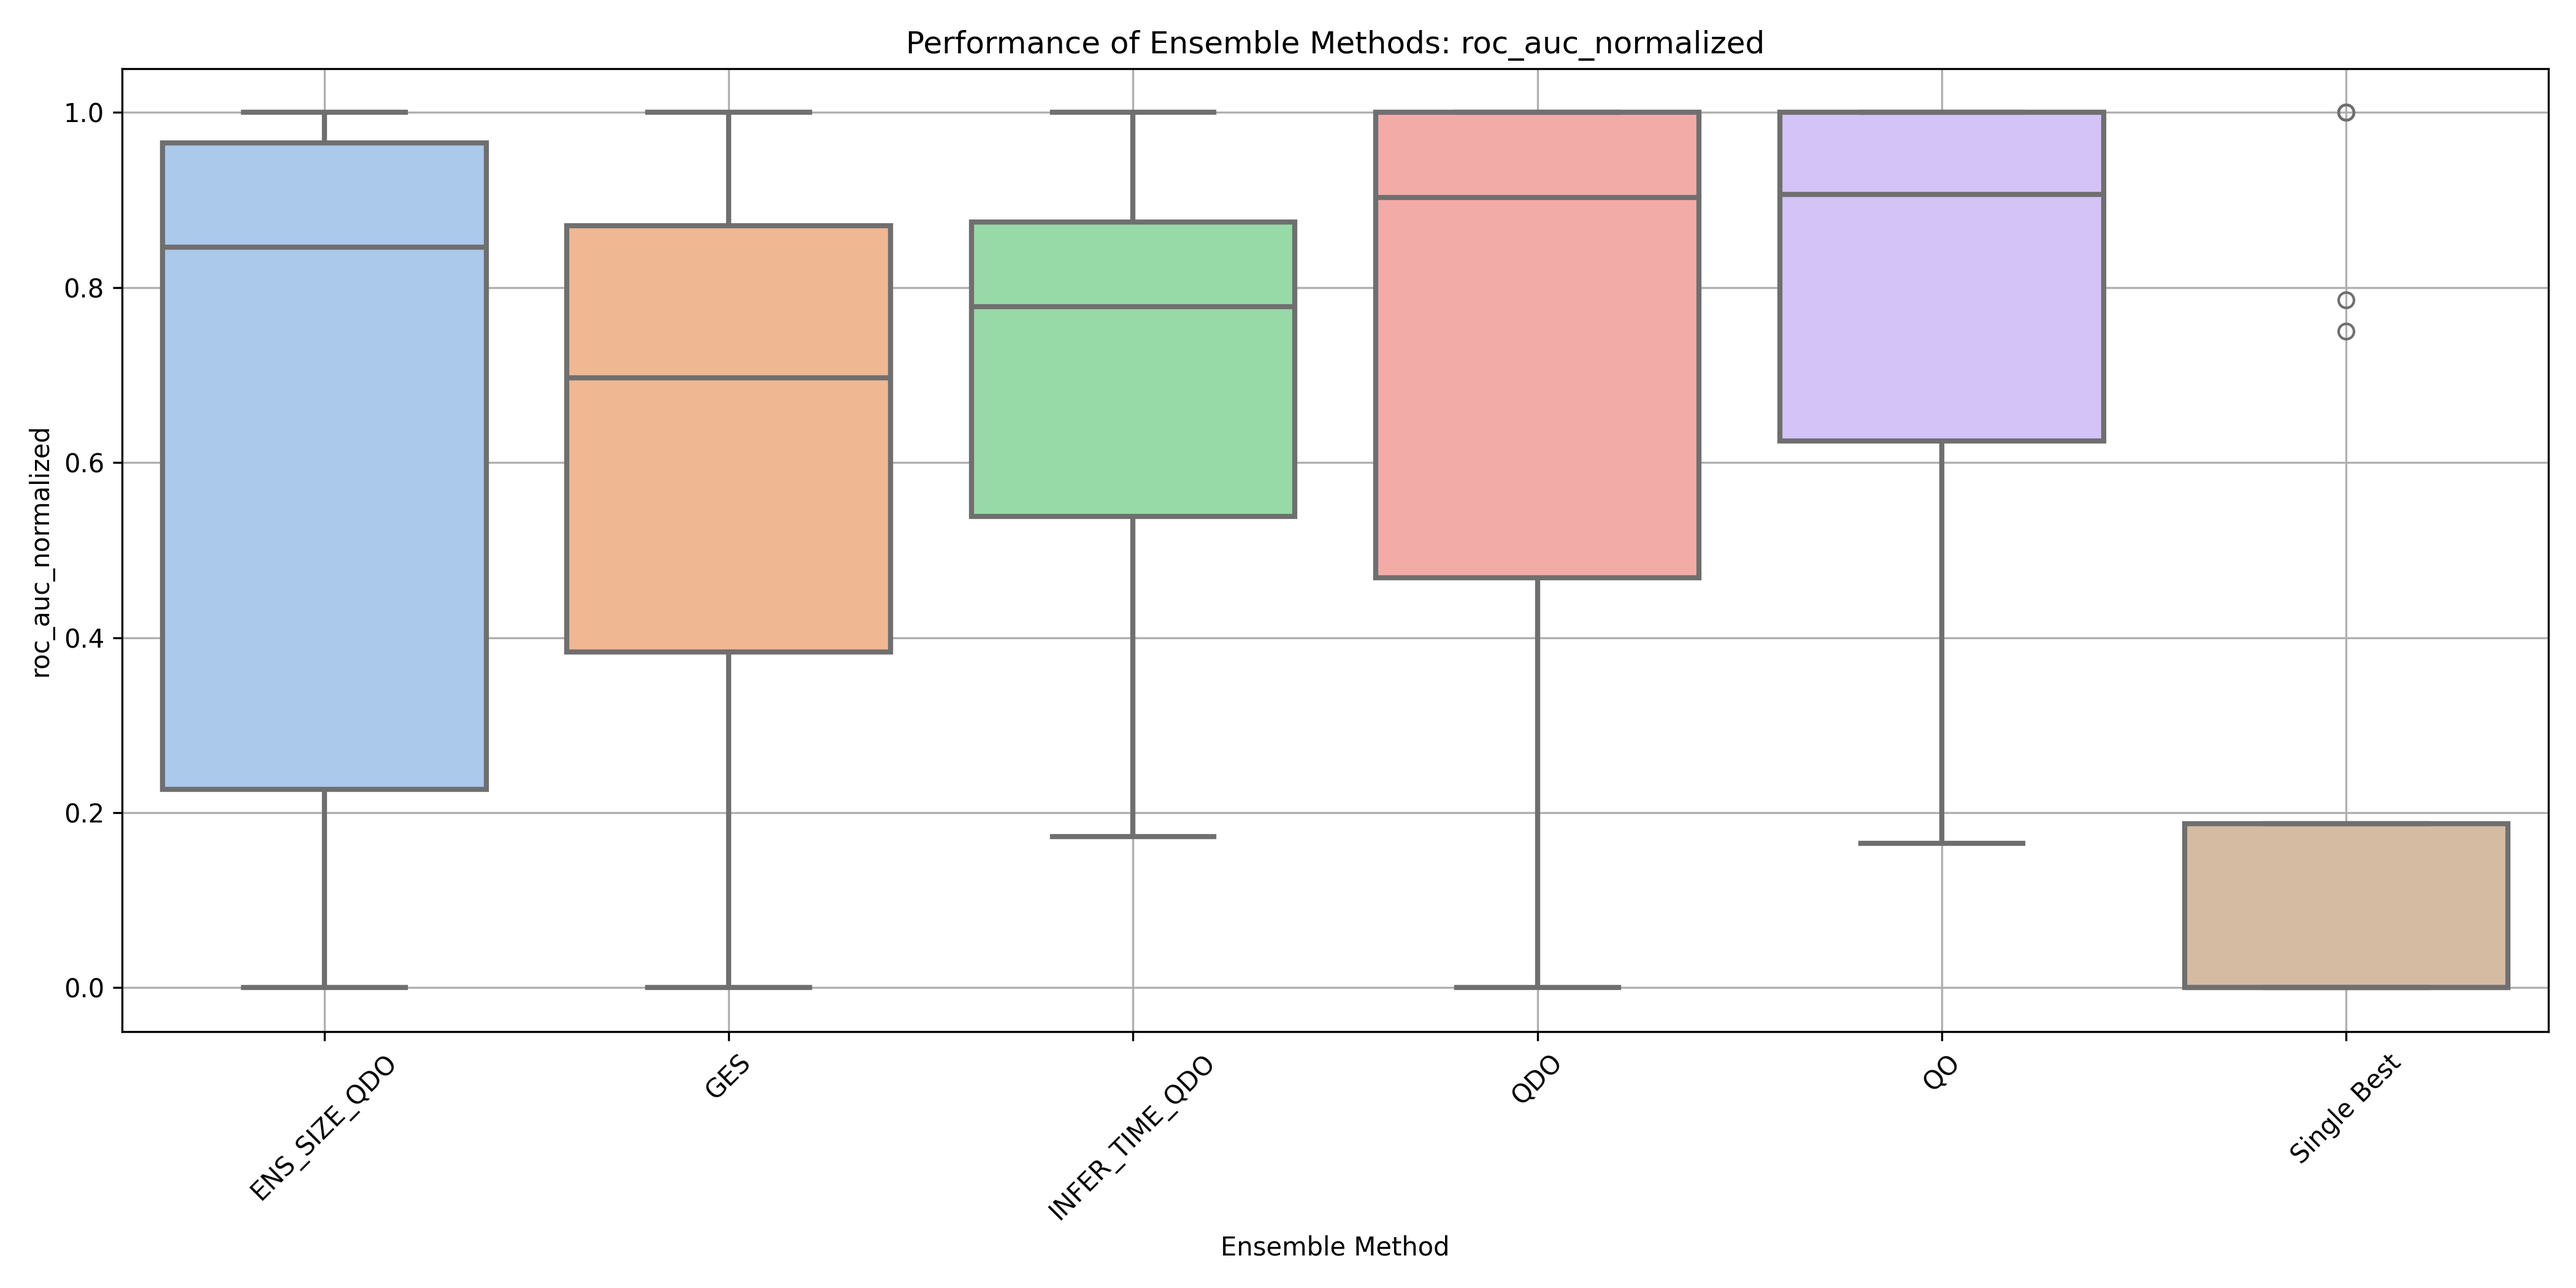
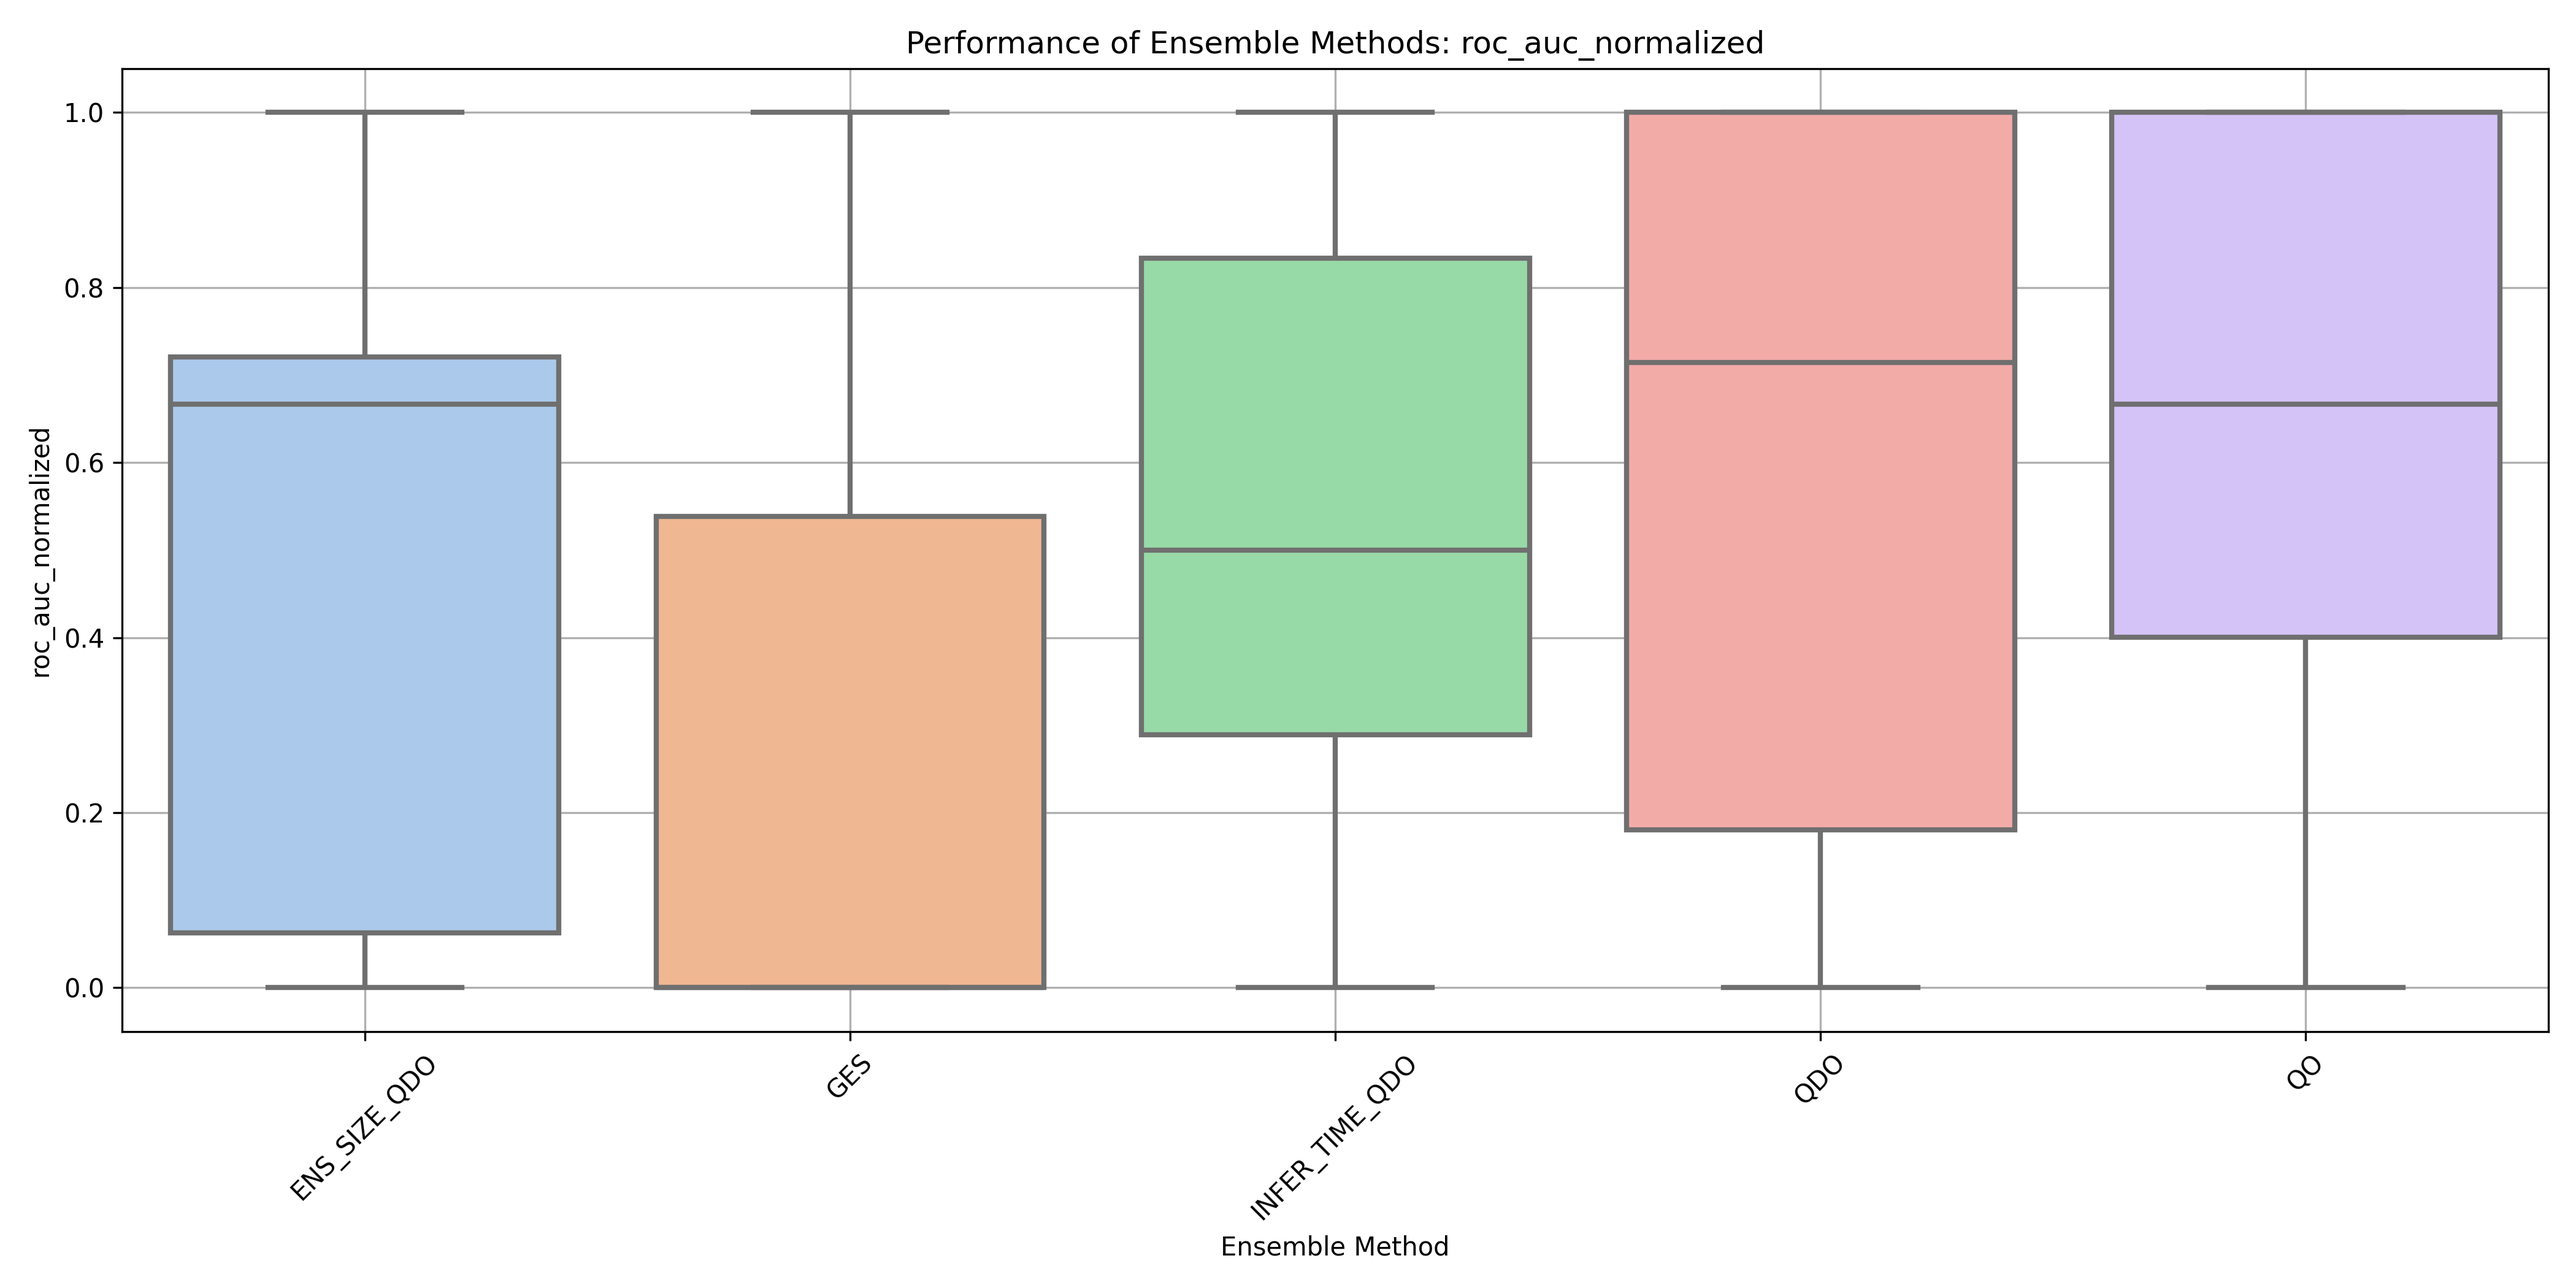
Hypervolume and seperate pareto fronts

diff --git a/haes/plot.py b/haes/plot.py
@@ -3,6 +3,7 @@ import pandas as pd
 import matplotlib.pyplot as plt
 import seaborn as sns
 import numpy as np
+import pygmo as pg
 
 from tabrepo import load_repository, EvaluationRepository
 
@@ -82,7 +83,7 @@ def boxplot(df: pd.DataFrame, y_str: str):
     plt.tight_layout()
 
     # save to file
-    plt.savefig("performance_" + y_str + ".png", dpi=300)
+    plt.savefig("plots/performance_" + y_str + ".png", dpi=300)
 
 
 def boxplot_ranking(df: pd.DataFrame):
@@ -105,7 +106,7 @@ def boxplot_ranking(df: pd.DataFrame):
     plt.tight_layout()
 
     # save to file
-    plt.savefig("performance_" + "dataset_rank" + ".png", dpi=300)
+    plt.savefig("plots/performance_" + "dataset_rank" + ".png", dpi=300)
 
 
 def normalized_improvement(df: pd.DataFrame):
@@ -187,6 +188,36 @@ def is_pareto_efficient(costs, return_mask=True):
         )
     return is_efficient if return_mask else costs[is_efficient]
 
+def plot_pareto_front(df, method_name, color_dict):
+    # Filter the DataFrame for the specific method
+    df_method = df[df["method"] == method_name]
+    costs = np.stack((df_method["inference_time"], -df_method["roc_auc"]), axis=1)
+    pareto_mask = is_pareto_efficient(costs)
+    pareto_df = df_method[pareto_mask]
+
+    # Plotting
+    plt.figure(figsize=(10, 6))
+    plt.scatter(df_method["inference_time"], df_method["roc_auc"], 
+                color=color_dict[method_name], label="All Configurations")
+    plt.scatter(pareto_df["inference_time"], pareto_df["roc_auc"], 
+                color='red', edgecolors='k', label='Pareto Front', zorder=10)
+    plt.title(f"Pareto Front of Inference Time vs ROC AUC for {method_name}")
+    plt.xlabel("Inference Time (s)")
+    plt.xscale("log")
+    plt.ylabel("ROC AUC")
+    plt.legend()
+    plt.grid(True)
+    plt.tight_layout()
+    plt.savefig(f"plots/pareto_front_{method_name}.png", dpi=300)
+    
+    # Compute hypervolume
+    pareto_points = np.stack((pareto_df['inference_time'], -pareto_df['roc_auc']), axis=1)
+    ref_point = np.max(pareto_points, axis=0) + 1
+    
+    hv = pg.hypervolume(pareto_points)
+    hypervolume = hv.compute(ref_point)
+
+    print(f"The hypervolume is: {hypervolume}")
 
 def main():
     data, n_errors, n_tasks = parse_data("20240419_0917_out.txt")
@@ -230,6 +261,19 @@ def main():
     # Remove task_id 3616
     df = df[df["task_id"] != "3616"]
 
+    # Pareto efficiency
+    # Exclude single best
+    df = df[df["method"] != "Single Best"]
+
+   # Get the pastel color palette with as many colors as there are methods
+    methods = df['method'].unique()
+    palette = sns.color_palette("pastel", len(methods))
+    color_dict = dict(zip(methods, palette))
+
+    # Iterate through each method and plot the Pareto front
+    for method_name in methods:
+        plot_pareto_front(df, method_name, color_dict)
+
     df_merged = (
         df.groupby(["task_id", "method"])
         .agg(
@@ -243,8 +287,6 @@ def main():
     )
     df_merged = normalize_per_task(df_merged)
 
-    print(df_merged.head(12))
-
     boxplot(df_merged, "roc_auc_normalized")
     boxplot(df, "normalized_improvement")
     df_merged_infertime_no_outliers = df_merged[
@@ -252,42 +294,6 @@ def main():
     ]
     boxplot(df_merged_infertime_no_outliers, "inference_time")
     boxplot_ranking(df_merged)
-
-    # Pareto efficiency
-    # Exclude single best
-    df = df[df["method"] != "Single Best"]
-    costs = np.stack((df["inference_time"], -df["roc_auc"]), axis=1)
-    pareto_mask = is_pareto_efficient(costs)
-    pareto_df = df[pareto_mask]
-
-    # Get the pastel color palette with as many colors as there are methods
-    methods = df['method'].unique()
-    palette = sns.color_palette("pastel", len(methods))
-
-    # Create a color dictionary to map each method to a color
-    color_dict = dict(zip(methods, palette))
-
-    # Plot all configurations with colors based on the method
-    plt.figure(figsize=(10, 6))
-    for method in methods:
-        subset = df[df['method'] == method]
-        plt.scatter(subset['inference_time'], subset['roc_auc'], color=color_dict[method], label=method)
-
-    # Now plot the Pareto front with a distinct color and label
-    plt.scatter(
-        pareto_df['inference_time'], pareto_df['roc_auc'],
-        color='black', edgecolors='k', label='Pareto Front', zorder=10
-    )
-
-    # Enhance plot aesthetics and usability
-    plt.title("Pareto Front of Inference Time vs ROC AUC")
-    plt.xlabel("Inference Time (s)")
-    plt.xscale("log")
-    plt.ylabel("ROC AUC")
-    plt.legend(title='Method', bbox_to_anchor=(1.05, 1), loc='upper left')
-    plt.grid(True)
-    plt.tight_layout()  # Adjust layout to accommodate the legend
-    plt.savefig("pareto_front.png", dpi=300)
 
 
 if __name__ == "__main__":
